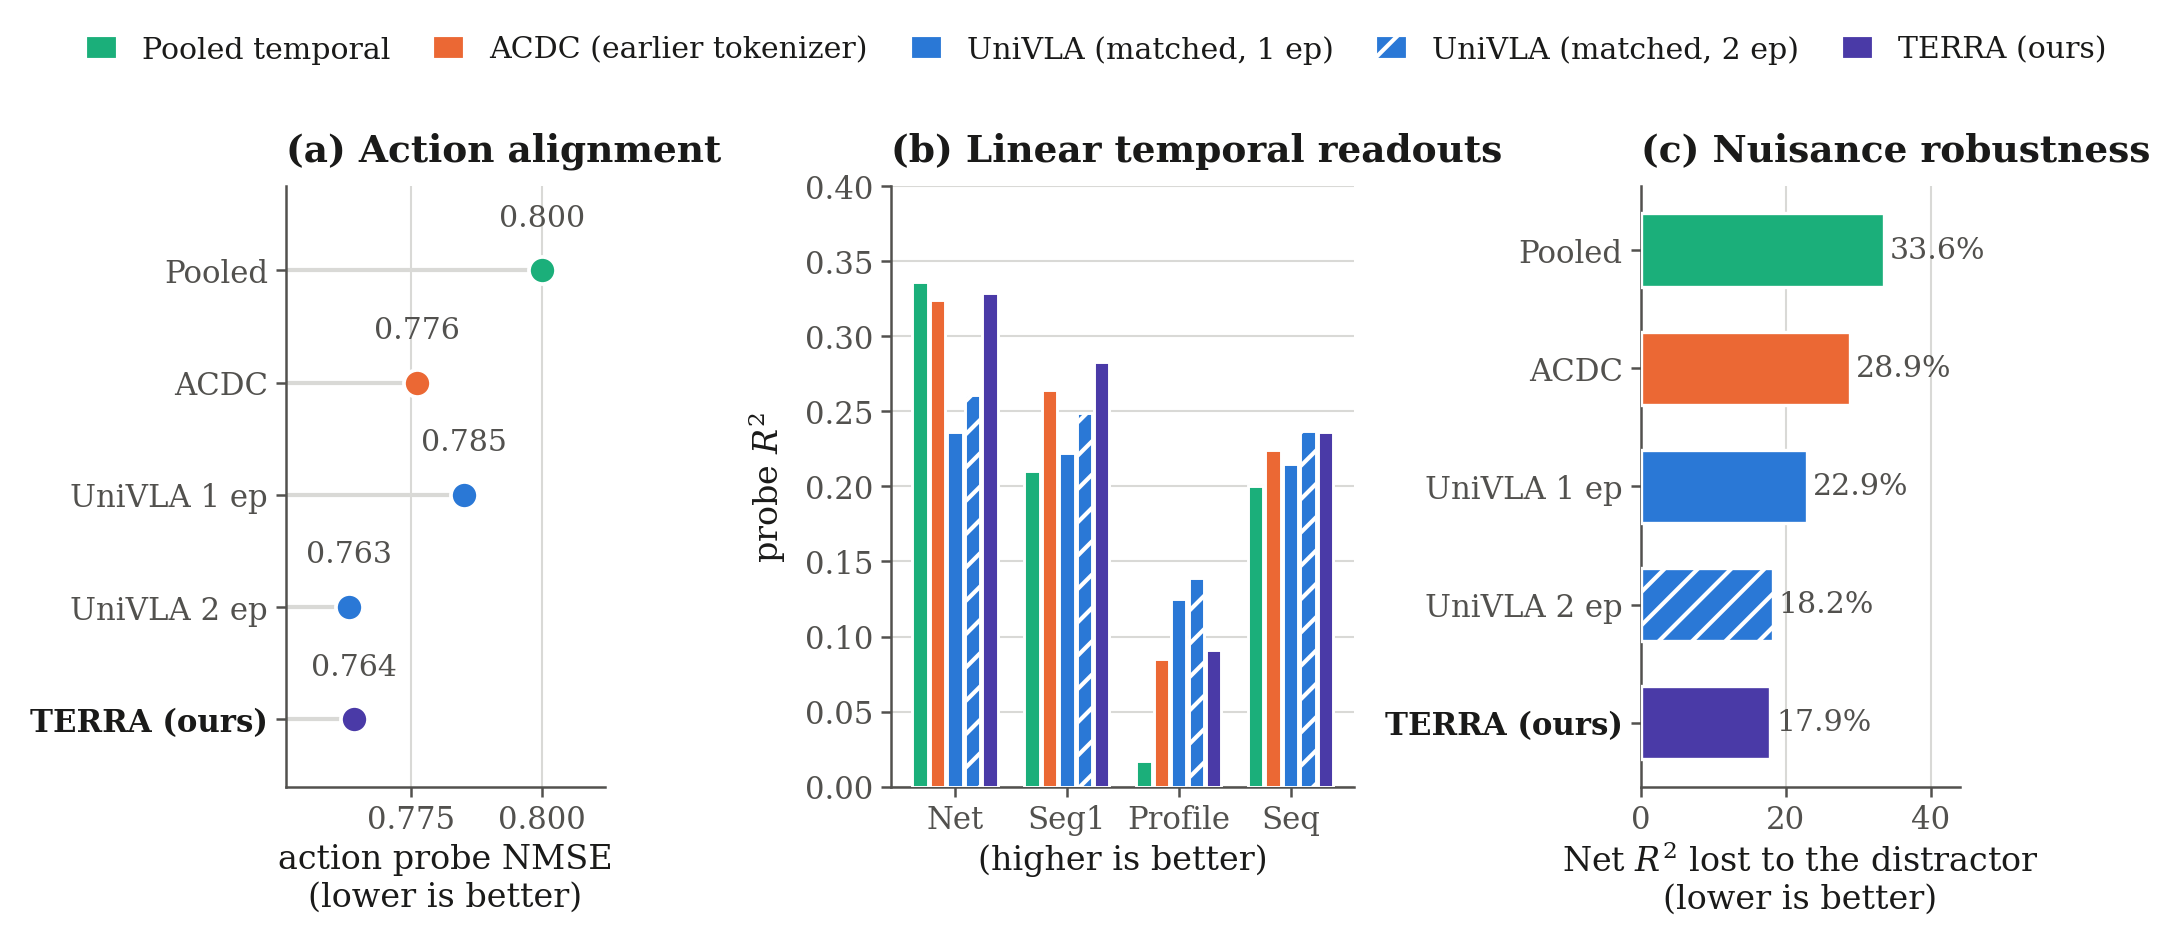
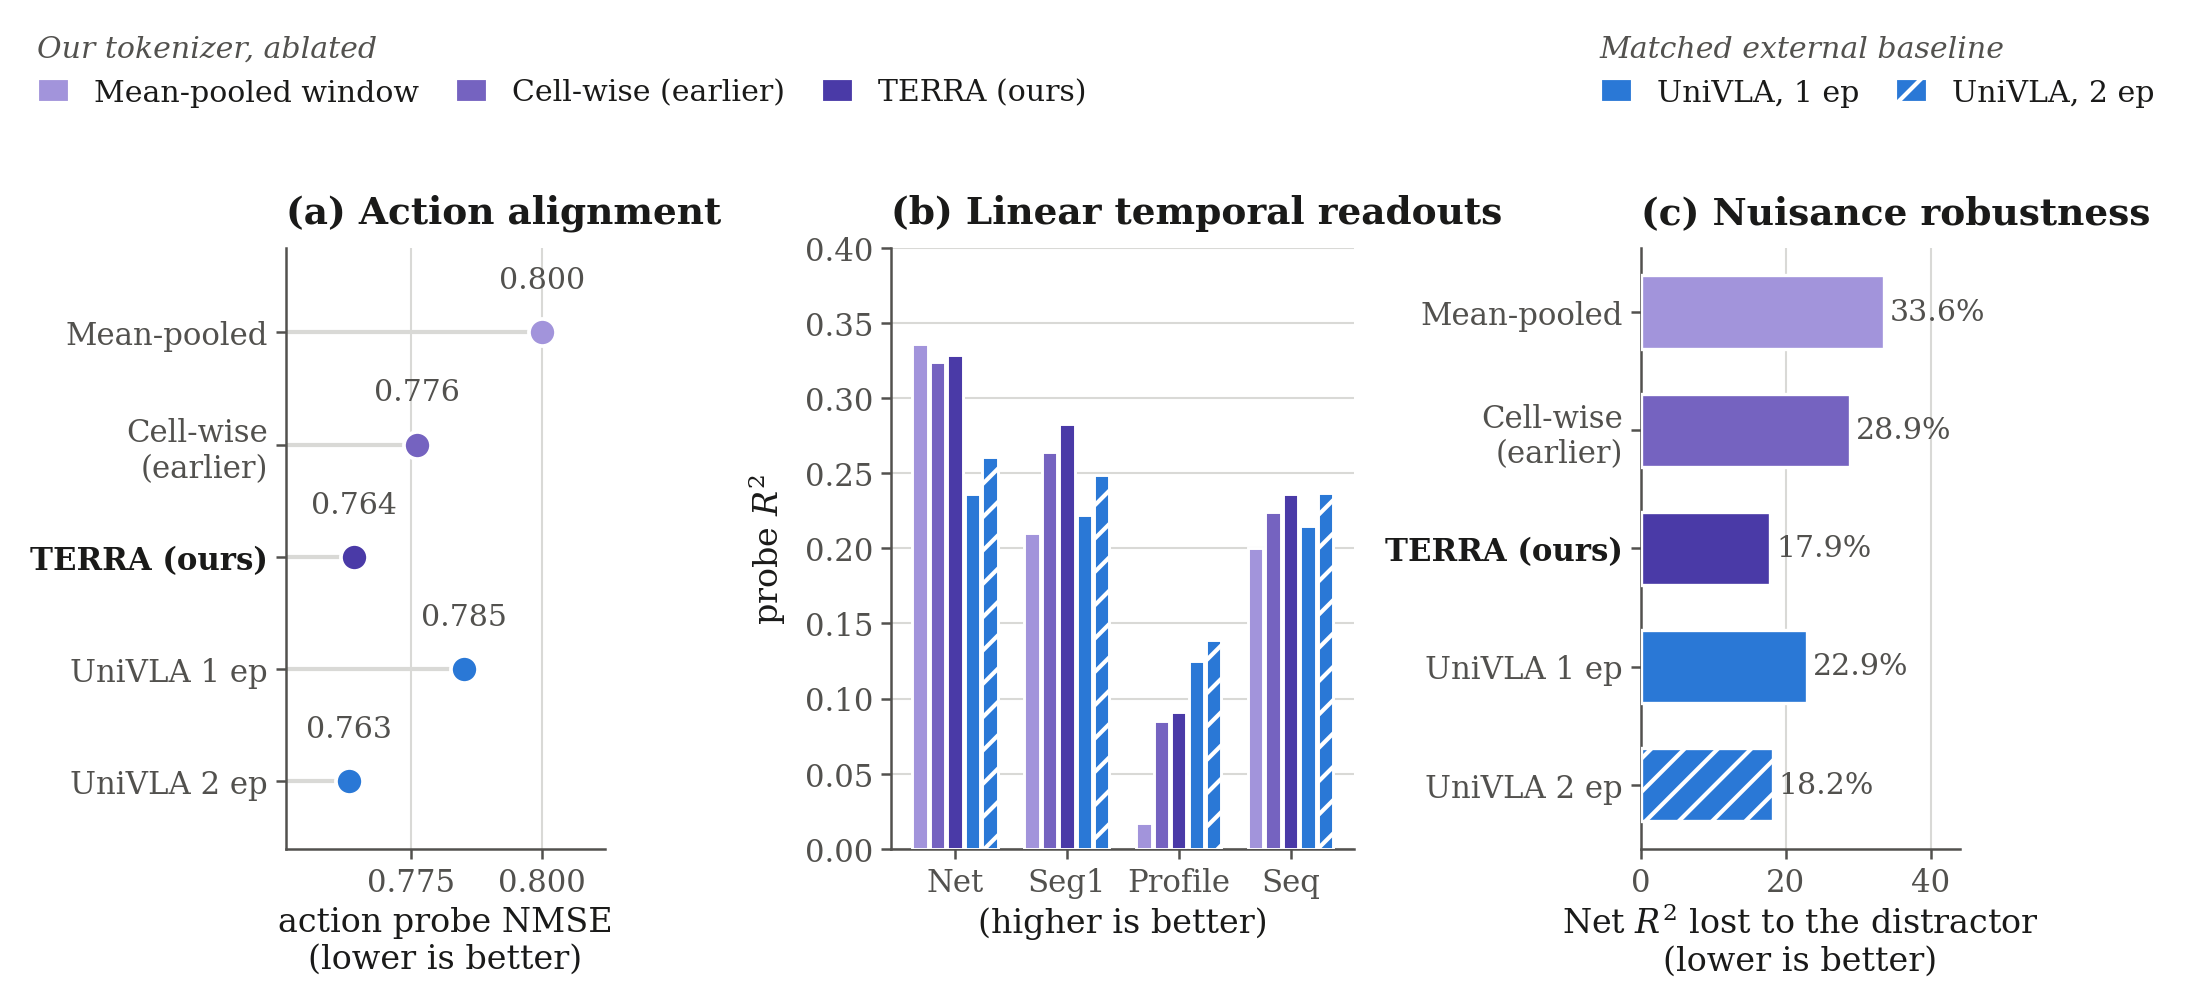
Figures: rename internal baselines functionally, show them as our ablation ladder (one hue) vs the external baseline
Claude-Session: https://claude.ai/code/session_01D41cpGfwM76yTZbfdphopa

Changed region(s): [[0.0, 0.0307, 0.9986, 0.982], [0.1248, 0.8286, 0.2809, 0.982]]

diff --git a/acdc_la/figures/make_paper_figures.py b/acdc_la/figures/make_paper_figures.py
@@ -16,13 +16,18 @@ from matplotlib.patches import Patch
 
 # --------------------------------------------------------------------------------------------------- DATA
 # Frozen tokenizers on the OXE validation split.                      [real] LEDGER 2026-09-11 / 09-14 / 09-16
+# Names are what a reader can parse without our internal history: the first three are an ablation ladder of OUR
+# tokenizer (internally s1_mean_1ep -> s1_acdc_1ep -> latp2_inv), the last two the matched external baseline.
 TOKENIZERS = {                       # label:            (Net,   Seg1,  Profile, Seq,   drop %)
-    "Pooled temporal":               (0.336, 0.210, 0.017, 0.200, 33.6),
-    "ACDC (earlier tokenizer)":      (0.324, 0.264, 0.085, 0.224, 28.9),
+    "Mean-pooled window":            (0.336, 0.210, 0.017, 0.200, 33.6),   # s1_mean_1ep: no temporal decomposition
+    "Cell-wise variant (earlier)":   (0.324, 0.264, 0.085, 0.224, 28.9),   # s1_acdc_1ep: per-cell MLP, 2x2 grid
+    "TERRA (ours)":                  (0.329, 0.283, 0.091, 0.236, 17.9),   # latp2_inv
     "UniVLA (matched, 1 ep)":        (0.236, 0.222, 0.125, 0.215, 22.9),
     "UniVLA (matched, 2 ep)":        (0.261, 0.249, 0.139, 0.237, 18.2),
-    "TERRA (ours)":                  (0.329, 0.283, 0.091, 0.236, 17.9),
 }
+OURS = 3                                                    # the first OURS entries are our own ablation ladder
+LEGEND = {"Mean-pooled window": "Mean-pooled window", "Cell-wise variant (earlier)": "Cell-wise (earlier)",
+          "TERRA (ours)": "TERRA (ours)", "UniVLA (matched, 1 ep)": "UniVLA, 1 ep", "UniVLA (matched, 2 ep)": "UniVLA, 2 ep"}
 # Panel (a): the paper cites the NMSE action probe of Lee et al.  [PLACEHOLDER protocol] we have not run theirs; shown
 # here as 1 - R^2 of OUR ridge probe on the full 12-step action sequence (the same quantity for a standardised target,
 # a different probe).  Replace this dict with the measured NMSE; nothing else in the file changes.
@@ -36,15 +41,16 @@ EAT = {                              # label:                        (Net,   Seg
     "EAT (complete)":                (0.329, 0.283, 0.091, 0.236, 17.9),   # [real] `latp2_inv`
 }
 TARGETS = ["Net", "Seg1", "Profile", "Seq"]
-SHORT = {"Pooled temporal": "Pooled", "ACDC (earlier tokenizer)": "ACDC", "UniVLA (matched, 1 ep)": "UniVLA 1 ep",
-         "UniVLA (matched, 2 ep)": "UniVLA 2 ep", "TERRA (ours)": "TERRA (ours)"}
+SHORT = {"Mean-pooled window": "Mean-pooled", "Cell-wise variant (earlier)": "Cell-wise\n(earlier)",
+         "TERRA (ours)": "TERRA (ours)", "UniVLA (matched, 1 ep)": "UniVLA 1 ep", "UniVLA (matched, 2 ep)": "UniVLA 2 ep"}
 
 # --------------------------------------------------------------------------------------------------- STYLE
 C = {"pooled": "#1baf7a", "acdc": "#eb6834", "univla": "#2a78d6", "ours": "#4a3aa7"}   # validated (dataviz skill)
 RAMP = ["#b0a5e2", "#7563c0", "#4a3aa7"]                                  # sequential: refinement progression
 INK, INK2, GRID = "#1a1a19", "#52514e", "#d9d9d6"
-SERIES_COLOR = [C["pooled"], C["acdc"], C["univla"], C["univla"], C["ours"]]
-SERIES_HATCH = ["", "", "", "///", ""]
+# our family: one hue, light -> dark (a sequential ladder, not four unrelated categories); baseline: a separate hue
+SERIES_COLOR = ["#a294db", "#7563c0", "#4a3aa7", C["univla"], C["univla"]]
+SERIES_HATCH = ["", "", "", "", "///"]
 
 plt.rcParams.update({
     "font.family": "serif", "font.serif": ["DejaVu Serif"], "mathtext.fontset": "dejavuserif",
@@ -138,10 +144,16 @@ def representation_summary(out):
     hbars(axes[2], short, [TOKENIZERS[l][4] for l in labs], SERIES_COLOR, SERIES_HATCH, "{:.1f}%",
           r"Net $R^2$ lost to the distractor", "lower is better", xmax=44)
 
-    handles = [Patch(facecolor=SERIES_COLOR[i], edgecolor="white", hatch=SERIES_HATCH[i], label=l)
+    handles = [Patch(facecolor=SERIES_COLOR[i], edgecolor="white", hatch=SERIES_HATCH[i], label=LEGEND[l])
                for i, l in enumerate(labs)]
-    fig.legend(handles=handles, ncol=5, frameon=False, loc="upper center", bbox_to_anchor=(0.5, 1.10),
-               handlelength=1.1, handleheight=0.9, columnspacing=1.4, borderpad=0.2)
+    l1 = fig.legend(handles=handles[:OURS], ncol=3, frameon=False, loc="upper left", bbox_to_anchor=(0.0, 1.18),
+                    title="Our tokenizer, ablated", handlelength=1.1, handleheight=0.9, columnspacing=1.2,
+                    borderpad=0.2, alignment="left")
+    l2 = fig.legend(handles=handles[OURS:], ncol=2, frameon=False, loc="upper right", bbox_to_anchor=(1.0, 1.18),
+                    title="Matched external baseline", handlelength=1.1, handleheight=0.9, columnspacing=1.2,
+                    borderpad=0.2, alignment="left")
+    for lg in (l1, l2):
+        lg.get_title().set_fontsize(7.2); lg.get_title().set_color(INK2); lg.get_title().set_style("italic")
     fig.savefig(out + ".pdf"); fig.savefig(out + ".png"); plt.close(fig)
 
 
